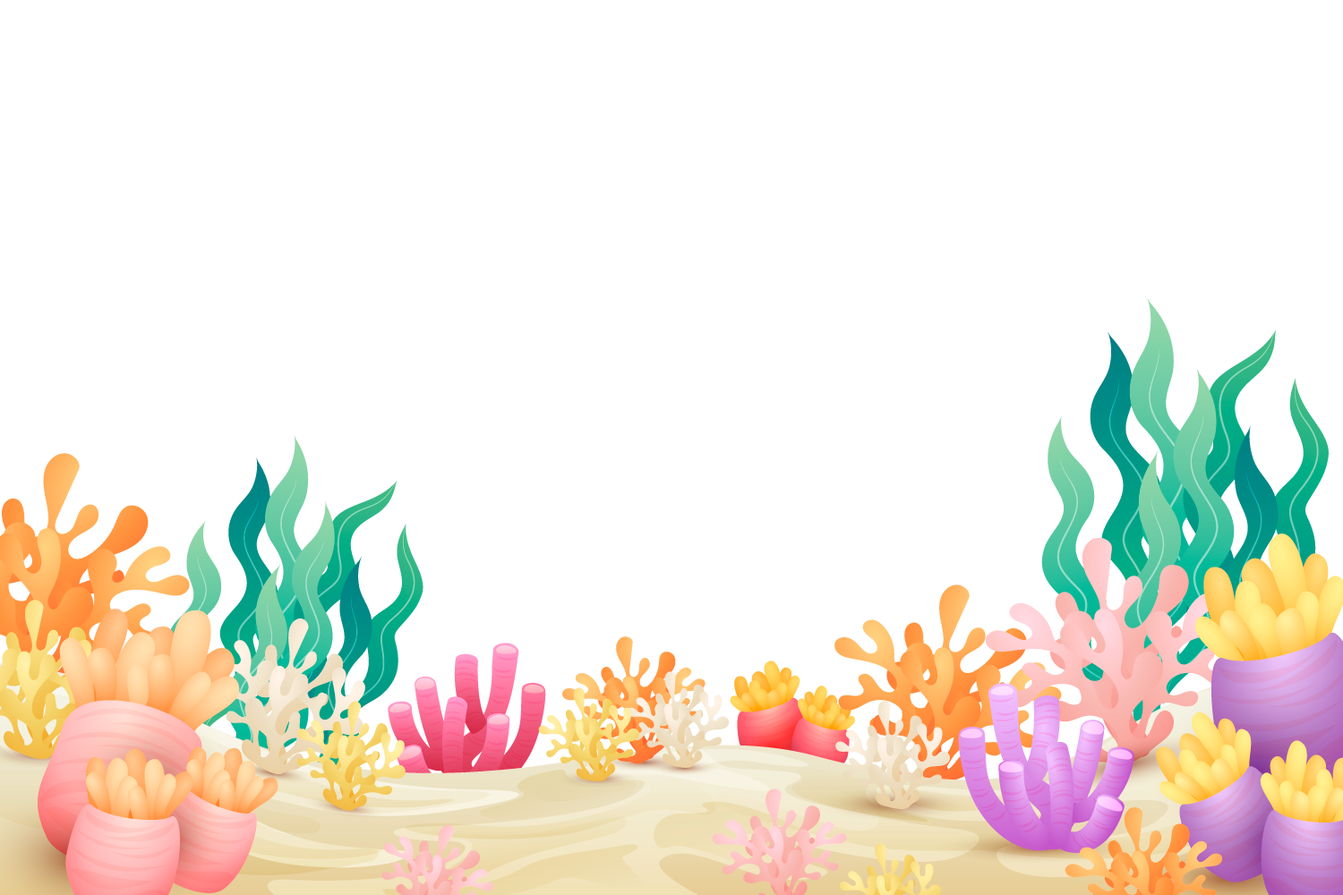
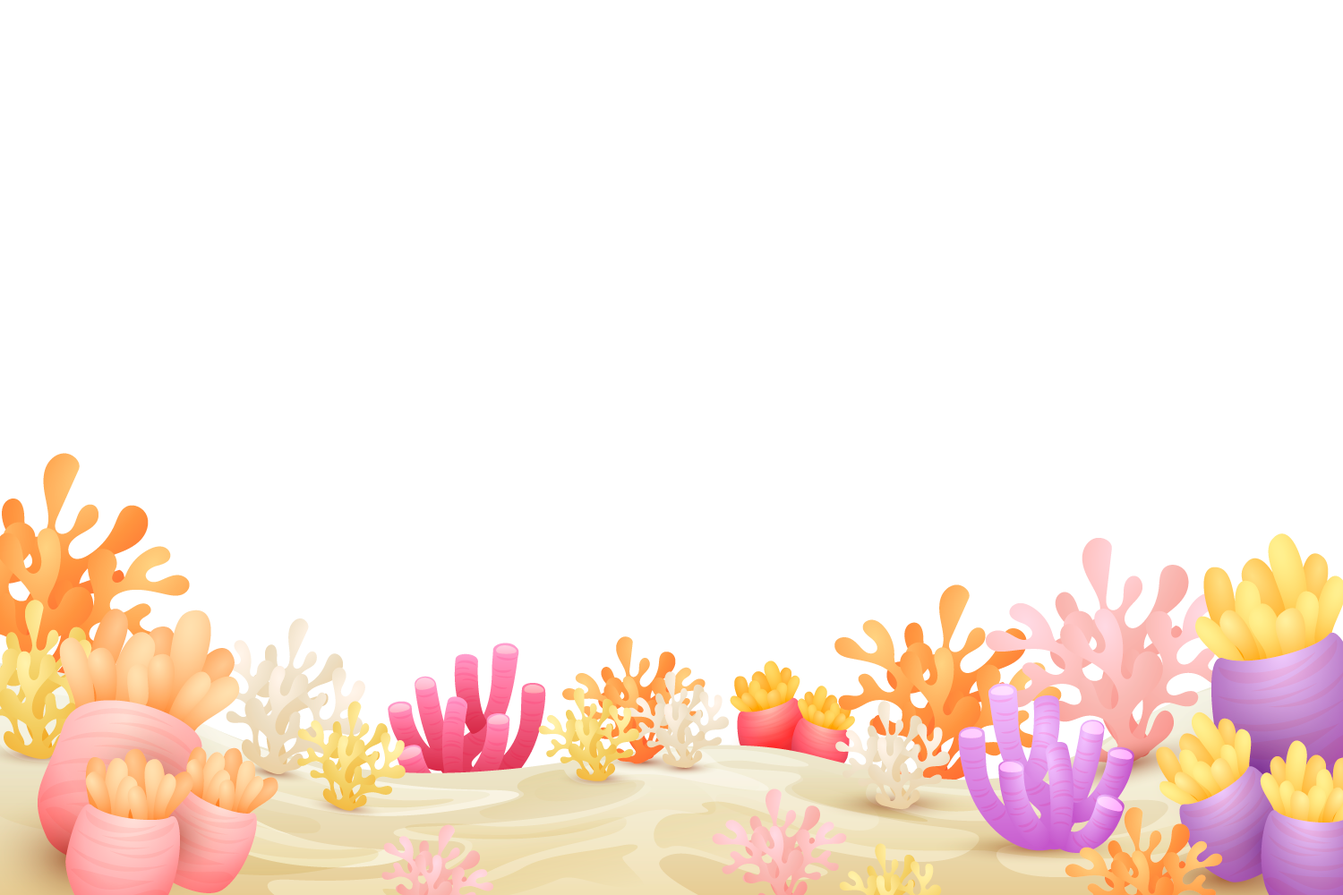
“new”

diff --git a/index.html b/index.html
@@ -1,24 +1,167 @@
 <!DOCTYPE html>
-<html lang="en" >
+<html lang="en">
+
 <head>
-  <meta charset="UTF-8">
-  <title>Somos Fish Tank</title>
-  <link rel="stylesheet" href="./style.css">
+    <meta charset="UTF-8">
+    <title>Somos Fish Tank</title>
+    <link rel="stylesheet" href="./style.css">
 
 </head>
+
 <body>
+    
 
-<div id="fish-tank">
-  <button id="fullscreenButton">Go Fullscreen</button>
-  <div class="bg bg-1"> </div>
-  <div class="bg bg-2"> </div>
-  <div class="bg bg-3"> </div>
-  <div class="bg bg-4"> </div>
-  <div id="bubble-field"></div>
-  <div id="fish-field"></div>
-</div>
+    <div id="fish-tank">
+        <button id="fullscreenButton">Go Fullscreen</button>
+        <div class="bg bg-1"> </div>
+        <div class="bg bg-2"> </div>
+        <div class="bg bg-3"> </div>
+        <div class="bg bg-4"> </div>
+        <div id="bubble-field"></div>
+        <div id="fish-field"></div>
+        <!--   SVG -->
+  <svg class="p1" width="400" height="400" viewBox="0 0 400 400" fill="none" overflow="visible" xmlns="http://www.w3.org/2000/svg">
 
-<script  src="./script.js"></script>
+    <style>
+      @keyframes warp {
+        0% 100% {
+          transform: skewX(0deg);
+        }
+  
+        50% {
+          transform: skewX(5deg);
+        }
+      }
+    </style>
+  
+    <g style="animation:warp 8s ease-in-out infinite normal forwards; transform-box: fill-box;
+    transform-origin: 0px 200px; ">
+  
+      <path d="M45.56 190.63c6.8-6.42 18.63-13.83 19.23-23.06.63-9.58-3.33-16.64-7.47-25.36-.92-1.95-1.87-4.02-1.57-6.09.27-1.92 1.58-3.53 2.84-5.05 8.57-10.3 12.11-20.67 4.8-33.22-5.07-8.7-16.49-13.61-16.42-24.66.05-6.55 3.91-12.41 4.28-19.01.64-11.48-3.66-22.02-11.79-31.14-1-1.12-1.84-2.15-2.33-3.53 2.19 6.2 2.31 13.15.83 19.37-1.61 6.76-6.74 11.95-9.09 18.51-3.3 9.2-1.69 20.17 5.75 27.69 7.22 7.29 13.01 14.8 10.35 25.07-2.01 7.75-8.36 13.79-10.67 21.47-2.66 8.83 3.09 13.22 8.6 19.81 13.04 15.61-.78 24.75-6.23 33.41-6.58 10.45-2.42 19.84-2.96 22.49 2.48-6.65 6.1-11.25 11.86-16.7h-.01Z" fill="url(#a)" />
+      <path d="M43.27 46.08c.26 3.78-.67 7.5-1.89 11.04-1.2 3.55-2.57 7.08-2.9 10.79-.37 3.7.49 7.46 2.15 10.9 1.64 3.46 3.96 6.62 6.39 9.7 2.43 3.08 5.01 6.1 7.11 9.46 2.09 3.32 3.59 7.16 3.39 11.06-.08 1.93-.54 3.83-1.23 5.61-.68 1.77-1.5 3.5-2.42 5.16-1.81 3.35-4.16 6.39-5.87 9.67-.84 1.64-1.47 3.37-1.58 5.17-.14 1.8.22 3.63.88 5.37.66 1.75 1.59 3.43 2.64 5.05 1.06 1.61 2.2 3.26 3.16 4.95 1.97 3.38 3.63 6.97 4.44 10.76.4 1.89.59 3.82.47 5.74-.13 1.91-.56 3.8-1.25 5.58-1.4 3.58-3.87 6.65-6.68 9.3-1.4 1.33-2.95 2.54-4.47 3.73-1.5 1.19-2.96 2.44-4.22 3.85-2.61 2.76-4.57 6.04-5.68 9.61-1.17 3.56-1.36 7.35-1.6 11.09.15-3.74.24-7.55 1.34-11.17 1.03-3.62 2.94-7.01 5.52-9.87 1.26-1.46 2.72-2.74 4.23-3.97 1.51-1.21 3-2.41 4.37-3.74 2.73-2.63 5.09-5.66 6.39-9.12.65-1.72 1.03-3.53 1.13-5.37.08-1.84-.1-3.69-.5-5.52-.8-3.66-2.43-7.16-4.38-10.48-.97-1.68-2.06-3.25-3.16-4.9-1.08-1.65-2.05-3.39-2.76-5.23-.7-1.84-1.11-3.81-.96-5.77.11-1.96.79-3.83 1.65-5.54 1.79-3.41 4.14-6.4 5.93-9.68 1.77-3.27 3.42-6.7 3.59-10.36.2-3.67-1.19-7.31-3.22-10.56-2.04-3.27-4.58-6.29-6.98-9.42-2.41-3.12-4.73-6.35-6.36-9.91-1.66-3.53-2.49-7.44-2.05-11.22.41-3.8 1.91-7.3 3.19-10.81 1.3-3.5 2.33-7.16 2.17-10.95h.02Z" fill="#fff" style="mix-blend-mode:soft-light" />
+      <path d="M59.38 182.27c5.51-9.74 19.55-20.35 6.2-36.98-5.64-7.02-11.51-11.62-8.85-21.43 2.32-8.53 8.76-15.43 10.78-24.03 2.67-11.41-3.26-19.42-10.65-27.14-7.61-7.96-9.29-19.95-5.98-30.2 2.36-7.31 7.57-13.22 9.18-20.72 1.48-6.9 1.33-14.54-.93-21.26.5 1.5 1.37 2.59 2.39 3.79 8.32 9.7 12.75 21.1 12.15 33.75-.35 7.26-4.26 13.87-4.28 21.07-.03 12.15 11.63 17.07 16.83 26.43 7.5 13.5 3.94 25.05-4.75 36.72-1.28 1.72-2.6 3.54-2.87 5.67-.29 2.29.68 4.53 1.63 6.63 4.25 9.41 8.32 17.01 7.72 27.57-.58 10.17-12.59 18.79-19.49 26.13-5.84 6.22-9.51 11.43-12.01 18.84.54-2.94-3.74-13.08 2.92-24.84h.01Z" fill="url(#b)" />
+      <path d="M65.5 29.47c.28 4.15-.65 8.27-1.88 12.22-1.21 3.95-2.59 7.89-2.91 11.98-.37 4.08.53 8.18 2.24 11.89 1.68 3.74 4.06 7.12 6.55 10.4 2.49 3.29 5.13 6.5 7.28 10.1 2.14 3.57 3.69 7.73 3.51 12.02-.07 2.13-.54 4.23-1.23 6.22a46.45 46.45 0 0 1-2.45 5.77c-1.83 3.76-4.21 7.2-5.94 10.87-.85 1.83-1.48 3.76-1.58 5.75-.13 1.98.24 3.98.92 5.87.68 1.9 1.63 3.71 2.71 5.44 1.09 1.73 2.25 3.49 3.24 5.32 2.02 3.64 3.73 7.52 4.57 11.65.42 2.06.62 4.18.51 6.29-.12 2.11-.55 4.2-1.25 6.19-1.41 3.99-3.91 7.47-6.76 10.49-1.42 1.52-2.99 2.91-4.53 4.28-1.53 1.37-3 2.81-4.29 4.41-2.64 3.14-4.63 6.83-5.75 10.79-1.18 3.96-1.35 8.14-1.58 12.26.13-4.12.21-8.3 1.31-12.33 1.04-4.02 2.97-7.82 5.58-11.07 1.27-1.65 2.76-3.13 4.29-4.54 1.53-1.4 3.05-2.77 4.43-4.29 2.77-3.01 5.16-6.43 6.47-10.29.65-1.92 1.03-3.93 1.13-5.95.08-2.02-.11-4.05-.53-6.04-.83-3.99-2.51-7.77-4.51-11.34-.99-1.81-2.11-3.49-3.24-5.26-1.11-1.77-2.1-3.64-2.83-5.63-.72-1.99-1.14-4.14-1.01-6.3.1-2.16.78-4.24 1.66-6.15 1.81-3.82 4.19-7.2 6-10.88 1.79-3.66 3.46-7.51 3.61-11.54.19-4.04-1.24-7.98-3.32-11.48-2.09-3.52-4.69-6.73-7.15-10.07-2.46-3.33-4.84-6.79-6.52-10.63-1.71-3.81-2.57-8.07-2.14-12.25.4-4.19 1.91-8.11 3.2-12.02 1.31-3.9 2.34-7.97 2.16-12.13l.03-.02Z" fill="#fff" style="mix-blend-mode:soft-light" />
+      <path d="M42.3 212.09c-6.56-6.76-20.8-12.59-11.87-28.48 3.77-6.71 8.17-11.51 4.11-18.87-3.52-6.4-10.42-10.71-13.68-17.22-4.33-8.64-.47-16.2 4.72-23.8 5.35-7.83 4.76-17.78.06-25.36-3.35-5.41-8.98-9.16-11.69-14.87-2.5-5.25-3.69-11.41-2.86-17.23-.19 1.3-.76 2.34-1.46 3.49-5.68 9.37-7.62 19.36-4.9 29.39 1.56 5.76 6.16 10.31 7.42 16.08 2.13 9.74-7.33 15.91-10.3 24.41-4.29 12.26.85 20.84 10.55 28.55 1.43 1.13 2.91 2.35 3.52 4 .65 1.78.18 3.76-.29 5.63-2.13 8.36-4.41 15.23-2.05 23.58 2.27 8.05 14.38 12.67 21.74 17.25 6.24 3.87 10.38 7.35 13.87 12.82-.99-2.25 1.04-11.21-6.87-19.37h-.02Z" fill="url(#c)" />
+      <path d="M10.47 90.7c.47 3.38 2.01 6.51 3.77 9.44 1.75 2.94 3.65 5.83 4.64 9.05 1.03 3.21.95 6.66.08 9.97-.84 3.32-2.36 6.48-3.99 9.59-1.63 3.11-3.41 6.19-4.69 9.49-1.28 3.27-1.93 6.9-1.02 10.31.43 1.69 1.21 3.29 2.16 4.75.95 1.46 2.01 2.84 3.16 4.16 2.27 2.66 4.97 4.97 7.13 7.59 1.06 1.31 1.96 2.73 2.39 4.31.46 1.56.47 3.24.2 4.88-.28 1.65-.8 3.28-1.45 4.88-.66 1.59-1.39 3.23-1.95 4.88-1.15 3.3-1.99 6.74-2.03 10.21-.01 1.73.18 3.47.64 5.14a16.98 16.98 0 0 0 2.17 4.72c1.94 2.93 4.75 5.25 7.79 7.13 1.52.95 3.15 1.77 4.75 2.57 1.59.81 3.14 1.68 4.55 2.72 2.88 2.01 5.27 4.6 6.95 7.56 1.73 2.95 2.6 6.27 3.52 9.53-.83-3.28-1.62-6.62-3.29-9.64-1.61-3.03-3.98-5.71-6.85-7.82-1.41-1.08-2.98-1.98-4.58-2.82-1.6-.83-3.17-1.64-4.66-2.6-2.97-1.88-5.67-4.18-7.5-7.02-.91-1.42-1.59-2.95-2.03-4.56-.42-1.61-.6-3.27-.58-4.95.05-3.36.88-6.71 2.03-9.96.56-1.64 1.27-3.21 1.95-4.84.67-1.63 1.23-3.32 1.53-5.06.29-1.73.29-3.54-.2-5.24-.46-1.71-1.43-3.25-2.53-4.62-2.26-2.72-4.95-4.98-7.18-7.59-2.22-2.6-4.36-5.36-5.19-8.57-.87-3.2-.28-6.64.95-9.84 1.24-3.22 2.98-6.29 4.58-9.44 1.6-3.14 3.11-6.37 3.92-9.77.85-3.38.87-6.97-.23-10.23-1.08-3.29-3.09-6.14-4.91-9.03-1.84-2.88-3.45-5.95-4.01-9.31l.01.03Z" fill="#fff" style="mix-blend-mode:soft-light" />
+      <path d="M116.43 33.09c-7.59 5.2-20 10.56-22.5 19.52-2.6 9.31-.45 16.89 1.51 26.12.44 2.06.87 4.25.16 6.24-.66 1.84-2.19 3.21-3.67 4.5-10.03 8.73-15.47 18.34-11.41 31.85 2.81 9.37 12.26 16.04 9.86 26.89-1.42 6.43-6.2 11.56-7.93 17.97-3.01 11.17-1.28 22.22 4.25 32.51.68 1.26 1.24 2.41 1.39 3.85-.7-6.44.65-13.29 3.32-19.16 2.9-6.38 8.7-10.64 12.24-16.7 4.96-8.5 5.8-19.54.56-28.13-5.08-8.34-8.82-16.65-4.21-26.31 3.48-7.29 10.58-12.19 14.32-19.35 4.3-8.24-.05-13.49-3.71-20.86-8.67-17.46 5.93-24.18 12.76-31.8 8.24-9.2 6.4-19.09 7.46-21.61-3.68 6.13-7.97 10.06-14.4 14.47Z" fill="url(#d)" />
+      <path d="M88.07 175.45c.56-3.76 2.2-7.26 4.06-10.54 1.85-3.29 3.85-6.53 4.93-10.13 1.12-3.58 1.13-7.41.33-11.06-.77-3.66-2.23-7.15-3.82-10.56-1.58-3.42-3.31-6.81-4.53-10.44-1.22-3.6-1.79-7.62-.78-11.41.48-1.89 1.3-3.67 2.31-5.31 1-1.63 2.11-3.19 3.31-4.68 2.37-3 5.17-5.6 7.42-8.54 1.11-1.47 2.06-3.07 2.53-4.82.51-1.74.56-3.6.33-5.42-.24-1.83-.74-3.63-1.35-5.39-.63-1.75-1.33-3.56-1.86-5.38-1.09-3.64-1.86-7.44-1.81-11.29.03-1.92.26-3.85.78-5.71.52-1.86 1.31-3.64 2.32-5.28 2.04-3.29 4.95-5.91 8.09-8.05 1.57-1.08 3.24-2.02 4.88-2.94 1.63-.92 3.23-1.92 4.69-3.1 2.97-2.28 5.47-5.19 7.24-8.51 1.83-3.31 2.8-7 3.81-10.63-.92 3.65-1.81 7.37-3.58 10.75a26.805 26.805 0 0 1-7.15 8.79c-1.46 1.23-3.08 2.25-4.72 3.21-1.64.95-3.26 1.88-4.8 2.96-3.06 2.14-5.86 4.74-7.78 7.92-.96 1.59-1.69 3.3-2.17 5.09-.46 1.79-.69 3.64-.71 5.5-.04 3.72.72 7.43 1.81 11.01.53 1.81 1.21 3.53 1.86 5.33.64 1.8 1.17 3.66 1.43 5.58.25 1.92.21 3.92-.33 5.82-.51 1.91-1.53 3.63-2.68 5.17-2.36 3.06-5.15 5.61-7.48 8.54-2.31 2.92-4.55 6.03-5.48 9.6-.96 3.57-.45 7.37.72 10.89 1.18 3.55 2.87 6.93 4.42 10.39 1.55 3.45 3 7.01 3.74 10.77.78 3.73.72 7.71-.49 11.35-1.17 3.66-3.29 6.86-5.21 10.1-1.93 3.23-3.65 6.66-4.3 10.4l.02.02Z" fill="#fff" style="mix-blend-mode:soft-light" />
+      <path d="M148.39 63.42c4.46 7.26 12.86 16.17 11.76 25.34-1.14 9.52-5.61 15.93-10.51 23.95-1.09 1.79-2.231 3.7-2.341 5.78-.11 1.93.68 3.69 1.45 5.36 5.23 11.32 6.34 22.02-1.82 33.38-5.66 7.88-15.869 11.14-17.719 22.03-1.1 6.46 1.049 12.76.209 19.3-1.46 11.4-6.81 21.18-15.05 29.06-1.01.97-1.88 1.87-2.52 3.16 2.87-5.8 4.171-12.63 4.031-18.96-.14-6.87-3.45-12.69-4.24-19.47-1.11-9.51 2.11-20.1 9.51-26.48 7.18-6.19 13.219-12.79 12.819-23.28-.3-7.91-4.459-14.73-5.019-22.6-.65-9.06 4.819-12.6 10.479-18.34 13.39-13.59 3.65-24.48.68-33.75-3.58-11.2 1.461-19.87 1.471-22.55.88 6.89 3.05 11.92 6.82 18.06l-.01.01Z" fill="url(#e)" />
+      <path d="M121.46 205.46c.87-3.69.75-7.48.37-11.13-.37-3.66-.88-7.32-.51-11.02.33-3.7 1.69-7.28 3.65-10.44 1.94-3.18 4.39-5.98 6.91-8.68 2.53-2.7 5.16-5.32 7.46-8.34 2.29-2.98 4.18-6.56 4.7-10.42.27-1.91.22-3.84-.03-5.69-.25-1.84-.62-3.65-1.09-5.41-.9-3.55-2.3-6.86-3.13-10.33-.4-1.73-.62-3.52-.4-5.3.2-1.79.81-3.54 1.65-5.17.85-1.63 1.9-3.16 3.03-4.61 1.15-1.44 2.36-2.91 3.45-4.45 2.2-3.06 4.18-6.37 5.5-9.99.66-1.8 1.15-3.68 1.38-5.59.23-1.9.2-3.82-.06-5.67-.53-3.71-2.01-7.08-3.86-10.07-.92-1.5-1.97-2.9-3.01-4.28-1.03-1.38-2-2.81-2.79-4.37-1.66-3.07-2.7-6.58-2.99-10.24-.34-3.67.16-7.43.61-11.14-.53 3.71-1.11 7.46-.84 11.18.22 3.71 1.2 7.3 2.82 10.47.78 1.61 1.76 3.07 2.78 4.49 1.03 1.4 2.04 2.78 2.93 4.28 1.78 2.97 3.19 6.27 3.65 9.86.23 1.79.23 3.62 0 5.44-.25 1.82-.72 3.62-1.36 5.36-1.29 3.49-3.23 6.72-5.41 9.72-1.08 1.52-2.25 2.92-3.44 4.4-1.17 1.48-2.27 3.06-3.16 4.77-.89 1.71-1.57 3.6-1.79 5.55-.25 1.95-.02 3.88.39 5.68.87 3.6 2.28 6.86 3.18 10.34.89 3.46 1.64 7.07 1.14 10.7-.47 3.64-2.24 7.03-4.46 9.96-2.23 2.95-4.84 5.57-7.35 8.32-2.51 2.74-4.97 5.61-6.93 8.89-1.97 3.24-3.33 6.98-3.62 10.77-.33 3.79.3 7.45.74 11.09.46 3.63.67 7.37-.12 11.08l.01-.01Z" fill="#fff" style="mix-blend-mode:soft-light" />
+      <path d="M132.16 242.33c-6.92-5.33-18.45-10.88-20.23-19.91-1.85-9.38.72-16.95 3.23-26.19.56-2.06 1.12-4.26.58-6.26-.5-1.86-1.88-3.26-3.21-4.57-9.02-8.9-13.57-18.62-8.76-32.13 3.34-9.36 12.85-15.92 11.29-26.84-.92-6.47-5.16-11.69-6.38-18.15-2.12-11.26.29-22.32 6.29-32.56.74-1.26 1.35-2.4 1.6-3.84-1.11 6.45-.28 13.34 1.88 19.27 2.34 6.44 7.61 10.8 10.59 16.94 4.18 8.6 4.23 19.69-1.38 28.24-5.44 8.29-9.59 16.58-5.83 26.34 2.83 7.36 9.31 12.39 12.4 19.62 3.56 8.33-.97 13.53-4.98 20.88-9.5 17.39 4.03 24.35 10.06 32.1 7.27 9.35 4.83 19.25 5.67 21.79-3.11-6.2-6.95-10.21-12.81-14.73h-.01Z" fill="url(#f)" />
+      <path d="M114.69 99.07c.28 3.78 1.61 7.32 3.17 10.64 1.55 3.33 3.25 6.61 4.04 10.23.83 3.6.57 7.45-.44 11.1-.99 3.67-2.63 7.14-4.38 10.55-1.75 3.41-3.64 6.78-5.05 10.41-1.41 3.6-2.23 7.62-1.53 11.44.33 1.9 1 3.7 1.85 5.36.84 1.65 1.81 3.23 2.85 4.74 2.06 3.04 4.57 5.7 6.53 8.68.97 1.49 1.76 3.11 2.1 4.87.37 1.75.29 3.62-.06 5.44-.35 1.83-.95 3.63-1.67 5.39-.73 1.75-1.52 3.55-2.15 5.37-1.29 3.64-2.29 7.44-2.5 11.3-.1 1.93 0 3.87.35 5.74.37 1.87 1.01 3.67 1.87 5.33 1.73 3.33 4.34 6 7.2 8.19 1.43 1.11 2.97 2.07 4.48 3.02 1.5.95 2.96 1.97 4.28 3.18 2.69 2.33 4.89 5.29 6.36 8.65 1.52 3.35 2.2 7.06 2.92 10.73-.64-3.68-1.23-7.42-2.7-10.84a24.927 24.927 0 0 0-6.25-8.93c-1.32-1.25-2.79-2.3-4.3-3.29-1.51-.97-3-1.93-4.4-3.04-2.79-2.2-5.3-4.84-6.92-8.06-.81-1.61-1.4-3.34-1.73-5.14-.32-1.8-.41-3.66-.3-5.53.22-3.74 1.2-7.44 2.49-11.02.63-1.81 1.4-3.53 2.15-5.32.74-1.8 1.37-3.66 1.75-5.58.37-1.92.47-3.93.08-5.85-.36-1.92-1.22-3.67-2.22-5.23-2.05-3.1-4.55-5.7-6.59-8.68-2.02-2.96-3.95-6.12-4.59-9.71-.67-3.6.07-7.4 1.44-10.92 1.37-3.54 3.23-6.91 4.94-10.36 1.72-3.44 3.35-6.99 4.32-10.75 1-3.73 1.21-7.73.31-11.4-.87-3.69-2.69-6.93-4.3-10.21-1.63-3.27-3.04-6.73-3.41-10.5h.01Z" fill="#fff" style="mix-blend-mode:soft-light" />
+      <path d="M72.76 205.11c5.78-8.41 19.36-16.94 8.55-33.1-4.57-6.82-9.54-11.46-6.34-20.16 2.78-7.56 9.18-13.32 11.68-20.98 3.32-10.15-1.43-17.89-7.53-25.49-6.28-7.83-6.87-18.86-3.04-27.9 2.72-6.45 7.92-11.41 9.97-18.09 1.89-6.15 2.35-13.1.83-19.38.34 1.4 1.04 2.46 1.87 3.63 6.79 9.47 9.92 20.17 8.37 31.62-.89 6.57-4.96 12.26-5.55 18.8-.99 11.03 9.22 16.43 13.2 25.34 5.75 12.85 1.6 23.06-7.21 32.98-1.3 1.46-2.64 3.01-3.05 4.92-.45 2.06.26 4.17.96 6.15 3.12 8.88 6.21 16.11 4.83 25.65-1.33 9.19-12.92 16.08-19.76 22.2-5.8 5.19-9.54 9.63-12.39 16.16.72-2.63-2.36-12.18 4.61-22.33v-.02Z" fill="url(#g)" />
+      <path d="M90.37 66.81c-.07 3.79-1.25 7.46-2.67 10.95-1.41 3.49-2.98 6.96-3.58 10.65-.65 3.68-.17 7.47 1.09 10.98 1.23 3.53 3.13 6.79 5.13 9.96 2 3.18 4.15 6.31 5.82 9.75 1.67 3.41 2.74 7.31 2.24 11.19-.24 1.93-.82 3.8-1.6 5.55-.78 1.74-1.68 3.43-2.68 5.05-1.96 3.27-4.39 6.2-6.25 9.4-.91 1.6-1.64 3.3-1.89 5.09-.28 1.79-.09 3.63.37 5.4.47 1.78 1.19 3.5 2.03 5.16.85 1.65 1.77 3.35 2.53 5.09 1.55 3.47 2.79 7.12 3.23 10.94.22 1.9.23 3.84-.04 5.75-.28 1.91-.83 3.77-1.62 5.52-1.59 3.51-4.14 6.48-6.97 9-1.41 1.27-2.94 2.41-4.45 3.53-1.5 1.12-2.95 2.31-4.24 3.66a26.499 26.499 0 0 0-6.07 9.35c-1.38 3.51-1.87 7.28-2.4 11.01.45-3.73.85-7.53 2.16-11.1 1.26-3.57 3.31-6.87 5.94-9.61 1.29-1.4 2.75-2.62 4.26-3.78 1.5-1.15 2.99-2.28 4.37-3.55 2.75-2.51 5.19-5.44 6.69-8.83.74-1.69 1.25-3.48 1.49-5.31.23-1.83.22-3.69 0-5.53-.44-3.69-1.67-7.26-3.2-10.66-.76-1.72-1.65-3.34-2.53-5.04-.87-1.7-1.62-3.47-2.13-5.34-.5-1.86-.71-3.85-.42-5.8.26-1.96 1.05-3.79 1.99-5.46 1.94-3.33 4.37-6.21 6.31-9.41 1.92-3.19 3.73-6.55 4.19-10.2.49-3.65-.5-7.35-2.11-10.68-1.62-3.36-3.73-6.48-5.7-9.71-1.98-3.22-3.86-6.55-5.08-10.17-1.25-3.59-1.7-7.54-.97-11.3.69-3.77 2.38-7.21 3.86-10.66 1.5-3.44 2.76-7.05 2.92-10.84h-.02Z" fill="#fff" style="mix-blend-mode:soft-light" />
+      <path d="M78.7 251.11c-5.7-8.41-19.1-16.94-8.43-33.1 4.5-6.82 9.41-11.46 6.26-20.16-2.74-7.56-9.05-13.32-11.53-20.98-3.28-10.15 1.41-17.89 7.43-25.49 6.2-7.83 6.77-18.86 3-27.9-2.69-6.45-7.81-11.41-9.83-18.09-1.86-6.15-2.32-13.1-.82-19.38-.33 1.4-1.02 2.46-1.85 3.63-6.7 9.47-9.78 20.17-8.25 31.62.88 6.57 4.89 12.26 5.47 18.8.97 11.03-9.09 16.43-13.02 25.34-5.67 12.85-1.58 23.06 7.11 32.98 1.28 1.46 2.6 3.01 3.01 4.92.44 2.06-.26 4.17-.94 6.15-3.07 8.88-6.13 16.11-4.77 25.65 1.31 9.19 12.74 16.08 19.49 22.2 5.72 5.19 9.41 9.63 12.22 16.16-.71-2.63 2.33-12.18-4.55-22.33v-.02Z" fill="url(#h)" />
+      <path d="M61.33 112.81c.07 3.79 1.23 7.46 2.63 10.95 1.39 3.49 2.93 6.96 3.54 10.65.65 3.68.16 7.47-1.08 10.98-1.22 3.53-3.08 6.79-5.06 9.96-1.98 3.18-4.09 6.31-5.74 9.75-1.64 3.41-2.71 7.31-2.21 11.19.23 1.93.81 3.8 1.58 5.55.77 1.74 1.66 3.43 2.64 5.05 1.93 3.27 4.33 6.2 6.16 9.4.9 1.6 1.62 3.3 1.86 5.09.27 1.79.09 3.63-.36 5.4-.46 1.78-1.18 3.5-2 5.16-.84 1.65-1.74 3.35-2.49 5.09-1.53 3.47-2.75 7.12-3.19 10.94-.22 1.9-.23 3.84.04 5.75.27 1.91.82 3.77 1.6 5.52 1.57 3.51 4.08 6.48 6.87 9 1.39 1.27 2.9 2.41 4.39 3.53 1.47 1.12 2.91 2.31 4.18 3.67 2.61 2.64 4.68 5.84 5.99 9.35 1.36 3.51 1.85 7.28 2.37 11.01-.44-3.73-.84-7.53-2.13-11.1-1.24-3.57-3.27-6.87-5.86-9.61-1.27-1.4-2.72-2.62-4.2-3.78-1.48-1.15-2.95-2.28-4.31-3.55-2.72-2.51-5.12-5.44-6.59-8.83-.73-1.69-1.23-3.48-1.47-5.31-.22-1.83-.21-3.69 0-5.53.44-3.69 1.64-7.26 3.16-10.66.75-1.72 1.62-3.34 2.49-5.04.85-1.7 1.6-3.47 2.1-5.34.49-1.86.7-3.85.41-5.8-.26-1.96-1.03-3.79-1.96-5.46-1.91-3.33-4.31-6.21-6.22-9.41-1.89-3.19-3.68-6.55-4.13-10.2-.48-3.65.49-7.35 2.08-10.68 1.6-3.36 3.68-6.48 5.62-9.71 1.95-3.22 3.81-6.55 5.01-10.17 1.23-3.59 1.67-7.54.96-11.3-.68-3.77-2.35-7.21-3.81-10.66-1.48-3.44-2.72-7.05-2.88-10.84l.01-.01Z" fill="#fff" style="mix-blend-mode:soft-light" />
+    </g>
+    <defs>
+      <linearGradient id="a" x1="64.552" y1="209.779" x2="34.291" y2="13.065" gradientUnits="userSpaceOnUse">
+        <stop stop-color="#7CBF87" />
+        <stop offset="1" stop-color="#157A84" />
+      </linearGradient>
+      <linearGradient id="b" x1="75.901" y1="-6.279" x2="61.599" y2="215.937" gradientUnits="userSpaceOnUse">
+        <stop stop-color="#B0DAAD" />
+        <stop offset="1" stop-color="#309F8A" />
+      </linearGradient>
+      <linearGradient id="c" x1="-6.97" y1="64.511" x2="41.9" y2="240.571" gradientUnits="userSpaceOnUse">
+        <stop stop-color="#B0DAAD" />
+        <stop offset="1" stop-color="#309F8A" />
+      </linearGradient>
+      <linearGradient id="d" x1="105.41" y1="11.41" x2="103.91" y2="210.23" gradientUnits="userSpaceOnUse">
+        <stop stop-color="#7CBF87" />
+        <stop offset="1" stop-color="#157A84" />
+      </linearGradient>
+      <linearGradient id="e" x1="165.202" y1="46.462" x2="97.136" y2="233.484" gradientUnits="userSpaceOnUse">
+        <stop stop-color="#7CBF87" />
+        <stop offset="1" stop-color="#157A84" />
+      </linearGradient>
+      <linearGradient id="f" x1="117.157" y1="263.884" x2="117.61" y2="64.859" gradientUnits="userSpaceOnUse">
+        <stop stop-color="#7CBF87" />
+        <stop offset="1" stop-color="#157A84" />
+      </linearGradient>
+      <linearGradient id="g" x1="102.646" y1="35.237" x2="72.105" y2="235.953" gradientUnits="userSpaceOnUse">
+        <stop stop-color="#B0DAAD" />
+        <stop offset="1" stop-color="#309F8A" />
+      </linearGradient>
+      <linearGradient id="h" x1="47.863" y1="81.468" x2="78.806" y2="282.132" gradientUnits="userSpaceOnUse">
+        <stop stop-color="#B0DAAD" />
+        <stop offset="1" stop-color="#309F8A" />
+      </linearGradient>
+    </defs>
+  </svg>
+    <svg class="p2" width="400" height="400" viewBox="0 0 400 400" fill="none" overflow="visible" xmlns="http://www.w3.org/2000/svg">
+  
+    <style>
+      @keyframes warp {
+        0% 100% {
+          transform: skewX(0deg);
+        }
+  
+        50% {
+          transform: skewX(5deg);
+        }
+      }
+    </style>
+  
+    <g style="animation:warp 7s .5s ease-in-out infinite normal forwards; transform-box: fill-box;
+    transform-origin: 0px 200px; ">
+  
+      <path d="M45.56 190.63c6.8-6.42 18.63-13.83 19.23-23.06.63-9.58-3.33-16.64-7.47-25.36-.92-1.95-1.87-4.02-1.57-6.09.27-1.92 1.58-3.53 2.84-5.05 8.57-10.3 12.11-20.67 4.8-33.22-5.07-8.7-16.49-13.61-16.42-24.66.05-6.55 3.91-12.41 4.28-19.01.64-11.48-3.66-22.02-11.79-31.14-1-1.12-1.84-2.15-2.33-3.53 2.19 6.2 2.31 13.15.83 19.37-1.61 6.76-6.74 11.95-9.09 18.51-3.3 9.2-1.69 20.17 5.75 27.69 7.22 7.29 13.01 14.8 10.35 25.07-2.01 7.75-8.36 13.79-10.67 21.47-2.66 8.83 3.09 13.22 8.6 19.81 13.04 15.61-.78 24.75-6.23 33.41-6.58 10.45-2.42 19.84-2.96 22.49 2.48-6.65 6.1-11.25 11.86-16.7h-.01Z" fill="url(#a)" />
+      <path d="M43.27 46.08c.26 3.78-.67 7.5-1.89 11.04-1.2 3.55-2.57 7.08-2.9 10.79-.37 3.7.49 7.46 2.15 10.9 1.64 3.46 3.96 6.62 6.39 9.7 2.43 3.08 5.01 6.1 7.11 9.46 2.09 3.32 3.59 7.16 3.39 11.06-.08 1.93-.54 3.83-1.23 5.61-.68 1.77-1.5 3.5-2.42 5.16-1.81 3.35-4.16 6.39-5.87 9.67-.84 1.64-1.47 3.37-1.58 5.17-.14 1.8.22 3.63.88 5.37.66 1.75 1.59 3.43 2.64 5.05 1.06 1.61 2.2 3.26 3.16 4.95 1.97 3.38 3.63 6.97 4.44 10.76.4 1.89.59 3.82.47 5.74-.13 1.91-.56 3.8-1.25 5.58-1.4 3.58-3.87 6.65-6.68 9.3-1.4 1.33-2.95 2.54-4.47 3.73-1.5 1.19-2.96 2.44-4.22 3.85-2.61 2.76-4.57 6.04-5.68 9.61-1.17 3.56-1.36 7.35-1.6 11.09.15-3.74.24-7.55 1.34-11.17 1.03-3.62 2.94-7.01 5.52-9.87 1.26-1.46 2.72-2.74 4.23-3.97 1.51-1.21 3-2.41 4.37-3.74 2.73-2.63 5.09-5.66 6.39-9.12.65-1.72 1.03-3.53 1.13-5.37.08-1.84-.1-3.69-.5-5.52-.8-3.66-2.43-7.16-4.38-10.48-.97-1.68-2.06-3.25-3.16-4.9-1.08-1.65-2.05-3.39-2.76-5.23-.7-1.84-1.11-3.81-.96-5.77.11-1.96.79-3.83 1.65-5.54 1.79-3.41 4.14-6.4 5.93-9.68 1.77-3.27 3.42-6.7 3.59-10.36.2-3.67-1.19-7.31-3.22-10.56-2.04-3.27-4.58-6.29-6.98-9.42-2.41-3.12-4.73-6.35-6.36-9.91-1.66-3.53-2.49-7.44-2.05-11.22.41-3.8 1.91-7.3 3.19-10.81 1.3-3.5 2.33-7.16 2.17-10.95h.02Z" fill="#fff" style="mix-blend-mode:soft-light" />
+      <path d="M59.38 182.27c5.51-9.74 19.55-20.35 6.2-36.98-5.64-7.02-11.51-11.62-8.85-21.43 2.32-8.53 8.76-15.43 10.78-24.03 2.67-11.41-3.26-19.42-10.65-27.14-7.61-7.96-9.29-19.95-5.98-30.2 2.36-7.31 7.57-13.22 9.18-20.72 1.48-6.9 1.33-14.54-.93-21.26.5 1.5 1.37 2.59 2.39 3.79 8.32 9.7 12.75 21.1 12.15 33.75-.35 7.26-4.26 13.87-4.28 21.07-.03 12.15 11.63 17.07 16.83 26.43 7.5 13.5 3.94 25.05-4.75 36.72-1.28 1.72-2.6 3.54-2.87 5.67-.29 2.29.68 4.53 1.63 6.63 4.25 9.41 8.32 17.01 7.72 27.57-.58 10.17-12.59 18.79-19.49 26.13-5.84 6.22-9.51 11.43-12.01 18.84.54-2.94-3.74-13.08 2.92-24.84h.01Z" fill="url(#b)" />
+      <path d="M65.5 29.47c.28 4.15-.65 8.27-1.88 12.22-1.21 3.95-2.59 7.89-2.91 11.98-.37 4.08.53 8.18 2.24 11.89 1.68 3.74 4.06 7.12 6.55 10.4 2.49 3.29 5.13 6.5 7.28 10.1 2.14 3.57 3.69 7.73 3.51 12.02-.07 2.13-.54 4.23-1.23 6.22a46.45 46.45 0 0 1-2.45 5.77c-1.83 3.76-4.21 7.2-5.94 10.87-.85 1.83-1.48 3.76-1.58 5.75-.13 1.98.24 3.98.92 5.87.68 1.9 1.63 3.71 2.71 5.44 1.09 1.73 2.25 3.49 3.24 5.32 2.02 3.64 3.73 7.52 4.57 11.65.42 2.06.62 4.18.51 6.29-.12 2.11-.55 4.2-1.25 6.19-1.41 3.99-3.91 7.47-6.76 10.49-1.42 1.52-2.99 2.91-4.53 4.28-1.53 1.37-3 2.81-4.29 4.41-2.64 3.14-4.63 6.83-5.75 10.79-1.18 3.96-1.35 8.14-1.58 12.26.13-4.12.21-8.3 1.31-12.33 1.04-4.02 2.97-7.82 5.58-11.07 1.27-1.65 2.76-3.13 4.29-4.54 1.53-1.4 3.05-2.77 4.43-4.29 2.77-3.01 5.16-6.43 6.47-10.29.65-1.92 1.03-3.93 1.13-5.95.08-2.02-.11-4.05-.53-6.04-.83-3.99-2.51-7.77-4.51-11.34-.99-1.81-2.11-3.49-3.24-5.26-1.11-1.77-2.1-3.64-2.83-5.63-.72-1.99-1.14-4.14-1.01-6.3.1-2.16.78-4.24 1.66-6.15 1.81-3.82 4.19-7.2 6-10.88 1.79-3.66 3.46-7.51 3.61-11.54.19-4.04-1.24-7.98-3.32-11.48-2.09-3.52-4.69-6.73-7.15-10.07-2.46-3.33-4.84-6.79-6.52-10.63-1.71-3.81-2.57-8.07-2.14-12.25.4-4.19 1.91-8.11 3.2-12.02 1.31-3.9 2.34-7.97 2.16-12.13l.03-.02Z" fill="#fff" style="mix-blend-mode:soft-light" />
+      <path d="M42.3 212.09c-6.56-6.76-20.8-12.59-11.87-28.48 3.77-6.71 8.17-11.51 4.11-18.87-3.52-6.4-10.42-10.71-13.68-17.22-4.33-8.64-.47-16.2 4.72-23.8 5.35-7.83 4.76-17.78.06-25.36-3.35-5.41-8.98-9.16-11.69-14.87-2.5-5.25-3.69-11.41-2.86-17.23-.19 1.3-.76 2.34-1.46 3.49-5.68 9.37-7.62 19.36-4.9 29.39 1.56 5.76 6.16 10.31 7.42 16.08 2.13 9.74-7.33 15.91-10.3 24.41-4.29 12.26.85 20.84 10.55 28.55 1.43 1.13 2.91 2.35 3.52 4 .65 1.78.18 3.76-.29 5.63-2.13 8.36-4.41 15.23-2.05 23.58 2.27 8.05 14.38 12.67 21.74 17.25 6.24 3.87 10.38 7.35 13.87 12.82-.99-2.25 1.04-11.21-6.87-19.37h-.02Z" fill="url(#c)" />
+      <path d="M10.47 90.7c.47 3.38 2.01 6.51 3.77 9.44 1.75 2.94 3.65 5.83 4.64 9.05 1.03 3.21.95 6.66.08 9.97-.84 3.32-2.36 6.48-3.99 9.59-1.63 3.11-3.41 6.19-4.69 9.49-1.28 3.27-1.93 6.9-1.02 10.31.43 1.69 1.21 3.29 2.16 4.75.95 1.46 2.01 2.84 3.16 4.16 2.27 2.66 4.97 4.97 7.13 7.59 1.06 1.31 1.96 2.73 2.39 4.31.46 1.56.47 3.24.2 4.88-.28 1.65-.8 3.28-1.45 4.88-.66 1.59-1.39 3.23-1.95 4.88-1.15 3.3-1.99 6.74-2.03 10.21-.01 1.73.18 3.47.64 5.14a16.98 16.98 0 0 0 2.17 4.72c1.94 2.93 4.75 5.25 7.79 7.13 1.52.95 3.15 1.77 4.75 2.57 1.59.81 3.14 1.68 4.55 2.72 2.88 2.01 5.27 4.6 6.95 7.56 1.73 2.95 2.6 6.27 3.52 9.53-.83-3.28-1.62-6.62-3.29-9.64-1.61-3.03-3.98-5.71-6.85-7.82-1.41-1.08-2.98-1.98-4.58-2.82-1.6-.83-3.17-1.64-4.66-2.6-2.97-1.88-5.67-4.18-7.5-7.02-.91-1.42-1.59-2.95-2.03-4.56-.42-1.61-.6-3.27-.58-4.95.05-3.36.88-6.71 2.03-9.96.56-1.64 1.27-3.21 1.95-4.84.67-1.63 1.23-3.32 1.53-5.06.29-1.73.29-3.54-.2-5.24-.46-1.71-1.43-3.25-2.53-4.62-2.26-2.72-4.95-4.98-7.18-7.59-2.22-2.6-4.36-5.36-5.19-8.57-.87-3.2-.28-6.64.95-9.84 1.24-3.22 2.98-6.29 4.58-9.44 1.6-3.14 3.11-6.37 3.92-9.77.85-3.38.87-6.97-.23-10.23-1.08-3.29-3.09-6.14-4.91-9.03-1.84-2.88-3.45-5.95-4.01-9.31l.01.03Z" fill="#fff" style="mix-blend-mode:soft-light" />
+      <path d="M116.43 33.09c-7.59 5.2-20 10.56-22.5 19.52-2.6 9.31-.45 16.89 1.51 26.12.44 2.06.87 4.25.16 6.24-.66 1.84-2.19 3.21-3.67 4.5-10.03 8.73-15.47 18.34-11.41 31.85 2.81 9.37 12.26 16.04 9.86 26.89-1.42 6.43-6.2 11.56-7.93 17.97-3.01 11.17-1.28 22.22 4.25 32.51.68 1.26 1.24 2.41 1.39 3.85-.7-6.44.65-13.29 3.32-19.16 2.9-6.38 8.7-10.64 12.24-16.7 4.96-8.5 5.8-19.54.56-28.13-5.08-8.34-8.82-16.65-4.21-26.31 3.48-7.29 10.58-12.19 14.32-19.35 4.3-8.24-.05-13.49-3.71-20.86-8.67-17.46 5.93-24.18 12.76-31.8 8.24-9.2 6.4-19.09 7.46-21.61-3.68 6.13-7.97 10.06-14.4 14.47Z" fill="url(#d)" />
+      <path d="M88.07 175.45c.56-3.76 2.2-7.26 4.06-10.54 1.85-3.29 3.85-6.53 4.93-10.13 1.12-3.58 1.13-7.41.33-11.06-.77-3.66-2.23-7.15-3.82-10.56-1.58-3.42-3.31-6.81-4.53-10.44-1.22-3.6-1.79-7.62-.78-11.41.48-1.89 1.3-3.67 2.31-5.31 1-1.63 2.11-3.19 3.31-4.68 2.37-3 5.17-5.6 7.42-8.54 1.11-1.47 2.06-3.07 2.53-4.82.51-1.74.56-3.6.33-5.42-.24-1.83-.74-3.63-1.35-5.39-.63-1.75-1.33-3.56-1.86-5.38-1.09-3.64-1.86-7.44-1.81-11.29.03-1.92.26-3.85.78-5.71.52-1.86 1.31-3.64 2.32-5.28 2.04-3.29 4.95-5.91 8.09-8.05 1.57-1.08 3.24-2.02 4.88-2.94 1.63-.92 3.23-1.92 4.69-3.1 2.97-2.28 5.47-5.19 7.24-8.51 1.83-3.31 2.8-7 3.81-10.63-.92 3.65-1.81 7.37-3.58 10.75a26.805 26.805 0 0 1-7.15 8.79c-1.46 1.23-3.08 2.25-4.72 3.21-1.64.95-3.26 1.88-4.8 2.96-3.06 2.14-5.86 4.74-7.78 7.92-.96 1.59-1.69 3.3-2.17 5.09-.46 1.79-.69 3.64-.71 5.5-.04 3.72.72 7.43 1.81 11.01.53 1.81 1.21 3.53 1.86 5.33.64 1.8 1.17 3.66 1.43 5.58.25 1.92.21 3.92-.33 5.82-.51 1.91-1.53 3.63-2.68 5.17-2.36 3.06-5.15 5.61-7.48 8.54-2.31 2.92-4.55 6.03-5.48 9.6-.96 3.57-.45 7.37.72 10.89 1.18 3.55 2.87 6.93 4.42 10.39 1.55 3.45 3 7.01 3.74 10.77.78 3.73.72 7.71-.49 11.35-1.17 3.66-3.29 6.86-5.21 10.1-1.93 3.23-3.65 6.66-4.3 10.4l.02.02Z" fill="#fff" style="mix-blend-mode:soft-light" />
+      <path d="M148.39 63.42c4.46 7.26 12.86 16.17 11.76 25.34-1.14 9.52-5.61 15.93-10.51 23.95-1.09 1.79-2.231 3.7-2.341 5.78-.11 1.93.68 3.69 1.45 5.36 5.23 11.32 6.34 22.02-1.82 33.38-5.66 7.88-15.869 11.14-17.719 22.03-1.1 6.46 1.049 12.76.209 19.3-1.46 11.4-6.81 21.18-15.05 29.06-1.01.97-1.88 1.87-2.52 3.16 2.87-5.8 4.171-12.63 4.031-18.96-.14-6.87-3.45-12.69-4.24-19.47-1.11-9.51 2.11-20.1 9.51-26.48 7.18-6.19 13.219-12.79 12.819-23.28-.3-7.91-4.459-14.73-5.019-22.6-.65-9.06 4.819-12.6 10.479-18.34 13.39-13.59 3.65-24.48.68-33.75-3.58-11.2 1.461-19.87 1.471-22.55.88 6.89 3.05 11.92 6.82 18.06l-.01.01Z" fill="url(#e)" />
+      <path d="M121.46 205.46c.87-3.69.75-7.48.37-11.13-.37-3.66-.88-7.32-.51-11.02.33-3.7 1.69-7.28 3.65-10.44 1.94-3.18 4.39-5.98 6.91-8.68 2.53-2.7 5.16-5.32 7.46-8.34 2.29-2.98 4.18-6.56 4.7-10.42.27-1.91.22-3.84-.03-5.69-.25-1.84-.62-3.65-1.09-5.41-.9-3.55-2.3-6.86-3.13-10.33-.4-1.73-.62-3.52-.4-5.3.2-1.79.81-3.54 1.65-5.17.85-1.63 1.9-3.16 3.03-4.61 1.15-1.44 2.36-2.91 3.45-4.45 2.2-3.06 4.18-6.37 5.5-9.99.66-1.8 1.15-3.68 1.38-5.59.23-1.9.2-3.82-.06-5.67-.53-3.71-2.01-7.08-3.86-10.07-.92-1.5-1.97-2.9-3.01-4.28-1.03-1.38-2-2.81-2.79-4.37-1.66-3.07-2.7-6.58-2.99-10.24-.34-3.67.16-7.43.61-11.14-.53 3.71-1.11 7.46-.84 11.18.22 3.71 1.2 7.3 2.82 10.47.78 1.61 1.76 3.07 2.78 4.49 1.03 1.4 2.04 2.78 2.93 4.28 1.78 2.97 3.19 6.27 3.65 9.86.23 1.79.23 3.62 0 5.44-.25 1.82-.72 3.62-1.36 5.36-1.29 3.49-3.23 6.72-5.41 9.72-1.08 1.52-2.25 2.92-3.44 4.4-1.17 1.48-2.27 3.06-3.16 4.77-.89 1.71-1.57 3.6-1.79 5.55-.25 1.95-.02 3.88.39 5.68.87 3.6 2.28 6.86 3.18 10.34.89 3.46 1.64 7.07 1.14 10.7-.47 3.64-2.24 7.03-4.46 9.96-2.23 2.95-4.84 5.57-7.35 8.32-2.51 2.74-4.97 5.61-6.93 8.89-1.97 3.24-3.33 6.98-3.62 10.77-.33 3.79.3 7.45.74 11.09.46 3.63.67 7.37-.12 11.08l.01-.01Z" fill="#fff" style="mix-blend-mode:soft-light" />
+      <path d="M132.16 242.33c-6.92-5.33-18.45-10.88-20.23-19.91-1.85-9.38.72-16.95 3.23-26.19.56-2.06 1.12-4.26.58-6.26-.5-1.86-1.88-3.26-3.21-4.57-9.02-8.9-13.57-18.62-8.76-32.13 3.34-9.36 12.85-15.92 11.29-26.84-.92-6.47-5.16-11.69-6.38-18.15-2.12-11.26.29-22.32 6.29-32.56.74-1.26 1.35-2.4 1.6-3.84-1.11 6.45-.28 13.34 1.88 19.27 2.34 6.44 7.61 10.8 10.59 16.94 4.18 8.6 4.23 19.69-1.38 28.24-5.44 8.29-9.59 16.58-5.83 26.34 2.83 7.36 9.31 12.39 12.4 19.62 3.56 8.33-.97 13.53-4.98 20.88-9.5 17.39 4.03 24.35 10.06 32.1 7.27 9.35 4.83 19.25 5.67 21.79-3.11-6.2-6.95-10.21-12.81-14.73h-.01Z" fill="url(#f)" />
+      <path d="M114.69 99.07c.28 3.78 1.61 7.32 3.17 10.64 1.55 3.33 3.25 6.61 4.04 10.23.83 3.6.57 7.45-.44 11.1-.99 3.67-2.63 7.14-4.38 10.55-1.75 3.41-3.64 6.78-5.05 10.41-1.41 3.6-2.23 7.62-1.53 11.44.33 1.9 1 3.7 1.85 5.36.84 1.65 1.81 3.23 2.85 4.74 2.06 3.04 4.57 5.7 6.53 8.68.97 1.49 1.76 3.11 2.1 4.87.37 1.75.29 3.62-.06 5.44-.35 1.83-.95 3.63-1.67 5.39-.73 1.75-1.52 3.55-2.15 5.37-1.29 3.64-2.29 7.44-2.5 11.3-.1 1.93 0 3.87.35 5.74.37 1.87 1.01 3.67 1.87 5.33 1.73 3.33 4.34 6 7.2 8.19 1.43 1.11 2.97 2.07 4.48 3.02 1.5.95 2.96 1.97 4.28 3.18 2.69 2.33 4.89 5.29 6.36 8.65 1.52 3.35 2.2 7.06 2.92 10.73-.64-3.68-1.23-7.42-2.7-10.84a24.927 24.927 0 0 0-6.25-8.93c-1.32-1.25-2.79-2.3-4.3-3.29-1.51-.97-3-1.93-4.4-3.04-2.79-2.2-5.3-4.84-6.92-8.06-.81-1.61-1.4-3.34-1.73-5.14-.32-1.8-.41-3.66-.3-5.53.22-3.74 1.2-7.44 2.49-11.02.63-1.81 1.4-3.53 2.15-5.32.74-1.8 1.37-3.66 1.75-5.58.37-1.92.47-3.93.08-5.85-.36-1.92-1.22-3.67-2.22-5.23-2.05-3.1-4.55-5.7-6.59-8.68-2.02-2.96-3.95-6.12-4.59-9.71-.67-3.6.07-7.4 1.44-10.92 1.37-3.54 3.23-6.91 4.94-10.36 1.72-3.44 3.35-6.99 4.32-10.75 1-3.73 1.21-7.73.31-11.4-.87-3.69-2.69-6.93-4.3-10.21-1.63-3.27-3.04-6.73-3.41-10.5h.01Z" fill="#fff" style="mix-blend-mode:soft-light" />
+      <path d="M72.76 205.11c5.78-8.41 19.36-16.94 8.55-33.1-4.57-6.82-9.54-11.46-6.34-20.16 2.78-7.56 9.18-13.32 11.68-20.98 3.32-10.15-1.43-17.89-7.53-25.49-6.28-7.83-6.87-18.86-3.04-27.9 2.72-6.45 7.92-11.41 9.97-18.09 1.89-6.15 2.35-13.1.83-19.38.34 1.4 1.04 2.46 1.87 3.63 6.79 9.47 9.92 20.17 8.37 31.62-.89 6.57-4.96 12.26-5.55 18.8-.99 11.03 9.22 16.43 13.2 25.34 5.75 12.85 1.6 23.06-7.21 32.98-1.3 1.46-2.64 3.01-3.05 4.92-.45 2.06.26 4.17.96 6.15 3.12 8.88 6.21 16.11 4.83 25.65-1.33 9.19-12.92 16.08-19.76 22.2-5.8 5.19-9.54 9.63-12.39 16.16.72-2.63-2.36-12.18 4.61-22.33v-.02Z" fill="url(#g)" />
+      <path d="M90.37 66.81c-.07 3.79-1.25 7.46-2.67 10.95-1.41 3.49-2.98 6.96-3.58 10.65-.65 3.68-.17 7.47 1.09 10.98 1.23 3.53 3.13 6.79 5.13 9.96 2 3.18 4.15 6.31 5.82 9.75 1.67 3.41 2.74 7.31 2.24 11.19-.24 1.93-.82 3.8-1.6 5.55-.78 1.74-1.68 3.43-2.68 5.05-1.96 3.27-4.39 6.2-6.25 9.4-.91 1.6-1.64 3.3-1.89 5.09-.28 1.79-.09 3.63.37 5.4.47 1.78 1.19 3.5 2.03 5.16.85 1.65 1.77 3.35 2.53 5.09 1.55 3.47 2.79 7.12 3.23 10.94.22 1.9.23 3.84-.04 5.75-.28 1.91-.83 3.77-1.62 5.52-1.59 3.51-4.14 6.48-6.97 9-1.41 1.27-2.94 2.41-4.45 3.53-1.5 1.12-2.95 2.31-4.24 3.66a26.499 26.499 0 0 0-6.07 9.35c-1.38 3.51-1.87 7.28-2.4 11.01.45-3.73.85-7.53 2.16-11.1 1.26-3.57 3.31-6.87 5.94-9.61 1.29-1.4 2.75-2.62 4.26-3.78 1.5-1.15 2.99-2.28 4.37-3.55 2.75-2.51 5.19-5.44 6.69-8.83.74-1.69 1.25-3.48 1.49-5.31.23-1.83.22-3.69 0-5.53-.44-3.69-1.67-7.26-3.2-10.66-.76-1.72-1.65-3.34-2.53-5.04-.87-1.7-1.62-3.47-2.13-5.34-.5-1.86-.71-3.85-.42-5.8.26-1.96 1.05-3.79 1.99-5.46 1.94-3.33 4.37-6.21 6.31-9.41 1.92-3.19 3.73-6.55 4.19-10.2.49-3.65-.5-7.35-2.11-10.68-1.62-3.36-3.73-6.48-5.7-9.71-1.98-3.22-3.86-6.55-5.08-10.17-1.25-3.59-1.7-7.54-.97-11.3.69-3.77 2.38-7.21 3.86-10.66 1.5-3.44 2.76-7.05 2.92-10.84h-.02Z" fill="#fff" style="mix-blend-mode:soft-light" />
+      <path d="M78.7 251.11c-5.7-8.41-19.1-16.94-8.43-33.1 4.5-6.82 9.41-11.46 6.26-20.16-2.74-7.56-9.05-13.32-11.53-20.98-3.28-10.15 1.41-17.89 7.43-25.49 6.2-7.83 6.77-18.86 3-27.9-2.69-6.45-7.81-11.41-9.83-18.09-1.86-6.15-2.32-13.1-.82-19.38-.33 1.4-1.02 2.46-1.85 3.63-6.7 9.47-9.78 20.17-8.25 31.62.88 6.57 4.89 12.26 5.47 18.8.97 11.03-9.09 16.43-13.02 25.34-5.67 12.85-1.58 23.06 7.11 32.98 1.28 1.46 2.6 3.01 3.01 4.92.44 2.06-.26 4.17-.94 6.15-3.07 8.88-6.13 16.11-4.77 25.65 1.31 9.19 12.74 16.08 19.49 22.2 5.72 5.19 9.41 9.63 12.22 16.16-.71-2.63 2.33-12.18-4.55-22.33v-.02Z" fill="url(#h)" />
+      <path d="M61.33 112.81c.07 3.79 1.23 7.46 2.63 10.95 1.39 3.49 2.93 6.96 3.54 10.65.65 3.68.16 7.47-1.08 10.98-1.22 3.53-3.08 6.79-5.06 9.96-1.98 3.18-4.09 6.31-5.74 9.75-1.64 3.41-2.71 7.31-2.21 11.19.23 1.93.81 3.8 1.58 5.55.77 1.74 1.66 3.43 2.64 5.05 1.93 3.27 4.33 6.2 6.16 9.4.9 1.6 1.62 3.3 1.86 5.09.27 1.79.09 3.63-.36 5.4-.46 1.78-1.18 3.5-2 5.16-.84 1.65-1.74 3.35-2.49 5.09-1.53 3.47-2.75 7.12-3.19 10.94-.22 1.9-.23 3.84.04 5.75.27 1.91.82 3.77 1.6 5.52 1.57 3.51 4.08 6.48 6.87 9 1.39 1.27 2.9 2.41 4.39 3.53 1.47 1.12 2.91 2.31 4.18 3.67 2.61 2.64 4.68 5.84 5.99 9.35 1.36 3.51 1.85 7.28 2.37 11.01-.44-3.73-.84-7.53-2.13-11.1-1.24-3.57-3.27-6.87-5.86-9.61-1.27-1.4-2.72-2.62-4.2-3.78-1.48-1.15-2.95-2.28-4.31-3.55-2.72-2.51-5.12-5.44-6.59-8.83-.73-1.69-1.23-3.48-1.47-5.31-.22-1.83-.21-3.69 0-5.53.44-3.69 1.64-7.26 3.16-10.66.75-1.72 1.62-3.34 2.49-5.04.85-1.7 1.6-3.47 2.1-5.34.49-1.86.7-3.85.41-5.8-.26-1.96-1.03-3.79-1.96-5.46-1.91-3.33-4.31-6.21-6.22-9.41-1.89-3.19-3.68-6.55-4.13-10.2-.48-3.65.49-7.35 2.08-10.68 1.6-3.36 3.68-6.48 5.62-9.71 1.95-3.22 3.81-6.55 5.01-10.17 1.23-3.59 1.67-7.54.96-11.3-.68-3.77-2.35-7.21-3.81-10.66-1.48-3.44-2.72-7.05-2.88-10.84l.01-.01Z" fill="#fff" style="mix-blend-mode:soft-light" />
+    </g>
+    <defs>
+      <linearGradient id="a" x1="64.552" y1="209.779" x2="34.291" y2="13.065" gradientUnits="userSpaceOnUse">
+        <stop stop-color="#7CBF87" />
+        <stop offset="1" stop-color="#157A84" />
+      </linearGradient>
+      <linearGradient id="b" x1="75.901" y1="-6.279" x2="61.599" y2="215.937" gradientUnits="userSpaceOnUse">
+        <stop stop-color="#B0DAAD" />
+        <stop offset="1" stop-color="#309F8A" />
+      </linearGradient>
+      <linearGradient id="c" x1="-6.97" y1="64.511" x2="41.9" y2="240.571" gradientUnits="userSpaceOnUse">
+        <stop stop-color="#B0DAAD" />
+        <stop offset="1" stop-color="#309F8A" />
+      </linearGradient>
+      <linearGradient id="d" x1="105.41" y1="11.41" x2="103.91" y2="210.23" gradientUnits="userSpaceOnUse">
+        <stop stop-color="#7CBF87" />
+        <stop offset="1" stop-color="#157A84" />
+      </linearGradient>
+      <linearGradient id="e" x1="165.202" y1="46.462" x2="97.136" y2="233.484" gradientUnits="userSpaceOnUse">
+        <stop stop-color="#7CBF87" />
+        <stop offset="1" stop-color="#157A84" />
+      </linearGradient>
+      <linearGradient id="f" x1="117.157" y1="263.884" x2="117.61" y2="64.859" gradientUnits="userSpaceOnUse">
+        <stop stop-color="#7CBF87" />
+        <stop offset="1" stop-color="#157A84" />
+      </linearGradient>
+      <linearGradient id="g" x1="102.646" y1="35.237" x2="72.105" y2="235.953" gradientUnits="userSpaceOnUse">
+        <stop stop-color="#B0DAAD" />
+        <stop offset="1" stop-color="#309F8A" />
+      </linearGradient>
+      <linearGradient id="h" x1="47.863" y1="81.468" x2="78.806" y2="282.132" gradientUnits="userSpaceOnUse">
+        <stop stop-color="#B0DAAD" />
+        <stop offset="1" stop-color="#309F8A" />
+      </linearGradient>
+    </defs>
+  </svg>
+    </div>
 
+
+    <script src="./script.js"></script>
 </body>
+
 </html>

diff --git a/style.css b/style.css
@@ -23,22 +23,22 @@ body {
   /* 100% of the viewport width */
 }
 .bg-1 {
-  background-image: url('https://giuseppefurcolo.github.io/somosFishTank/bg/bg-1.png');
+  background-image: url('bg/bg-1.jpg');
   z-index: 0;
-  opacity: 40%;
+  //opacity: 40%;
 }
 .bg-2 {
-  background-image: url('https://giuseppefurcolo.github.io/somosFishTank/bg/bg-2.png');
+  background-image: url('bg/bg-2.png');
   z-index: 1;
-  opacity: 30%;
+  //opacity: 30%;
 }
 .bg-3 {
-  background-image: url('https://giuseppefurcolo.github.io/somosFishTank/bg/bg-3.png');
+  background-image: url('bg/bg-3.png');
   z-index: 2;
-  opacity: 40%;
+ //opacity: 40%;
 }
 .bg-4 {
-  background-image: url('https://giuseppefurcolo.github.io/somosFishTank/bg/bg-4.png');
+  background-image: url('bg/bg-4.png');
   z-index: 100;
 }
 #fish-tank {
@@ -155,3 +155,19 @@ body {
   position: absolute;
   right: 0;
 }
+
+.p1 {
+  position: absolute;
+  z-index: 1;
+  bottom: 100px;
+  left: 220px;
+  transform: scale(1.8);
+}
+.p2 {
+  position: absolute;
+  z-index: 1;
+  bottom: 100px;
+  right: 260px;
+  transform: scale(1.7) rotateY(180deg);
+}
+
